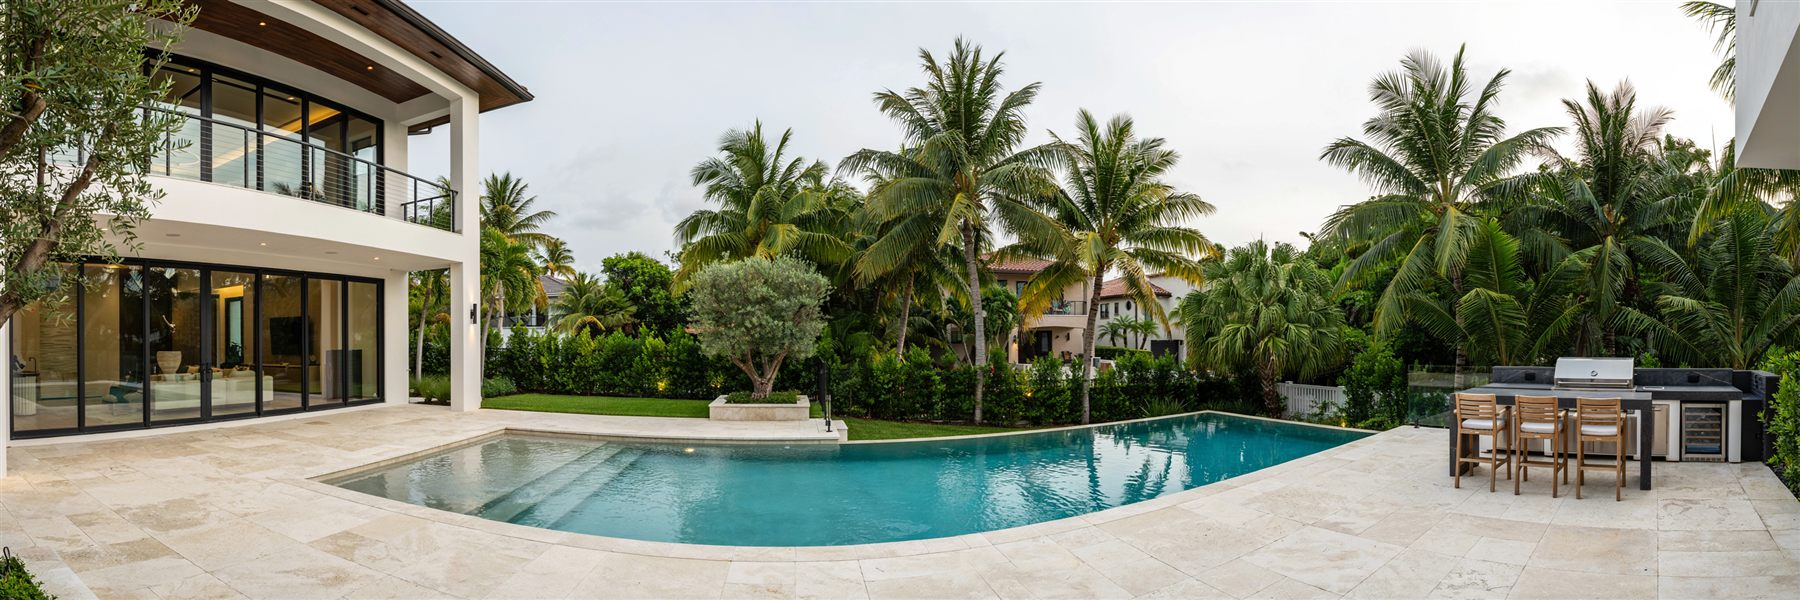
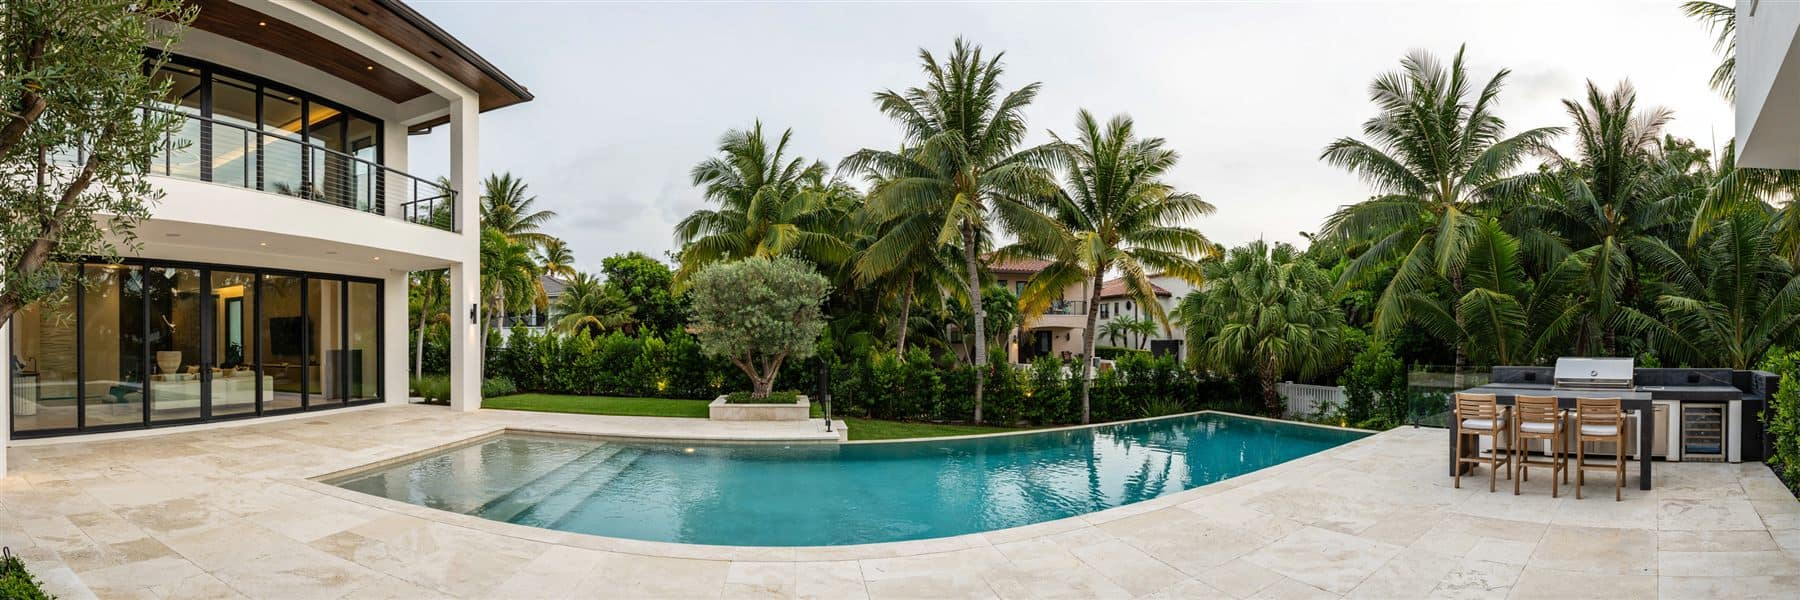
perf(home): hero estatico no index.html + foto do hero 251->161KB
A home era 100% JS: #root vazio, nada pintava ate o React montar no
celular (LCP 8,2s com todos os recursos baixados em 1,2s). Agora o
prerender injeta uma copia estatica do above-the-fold (.vgx-nav +
.vgx-hero) dentro do #root SO no dist/index.html - o CSS ja e
render-blocking e pinta o hero em ~2s; o React substitui ao montar
(markup igual, troca invisivel, createRoot.render).

- guarda de rota inline: o bloco some em rotas != / (o index.html
  tambem e fallback do SPA pra /imoveis, /favoritos etc.)
- injecao e o ULTIMO passo do prerender (as outras paginas usam o
  baseHtml pristino lido no topo); root ausente agora FALHA o build
- casa-conceito.jpg recomprimida q72 mozjpeg (fica sob scrim/gradiente)
- Lighthouse mobile local: score 46->85, FCP 4,5s->1,1s, LCP 8,2s->1,9s

Changed region(s): [[0.0, 0.27, 0.0311, 0.33], [0.7467, 0.24, 0.7778, 0.27], [0.5289, 0.12, 0.56, 0.15]]

diff --git a/scripts/home-hero-estatico.html b/scripts/home-hero-estatico.html
@@ -1,0 +1,15 @@
+<!-- Hero estático da home (above-the-fold), injetado pelo prerender-og.mjs DENTRO do <div id="root">
+     de dist/index.html. Objetivo: FCP/LCP no mobile sem esperar o React montar (o CSS já é
+     render-blocking e pinta isto em ~2s; antes, nada pintava até o JS todo rodar).
+     - É uma CÓPIA do HTML que o React gera (SecoesVG.jsx: .vgx-nav + .vgx-hero). O React 18
+       substitui tudo ao montar (createRoot().render) - markup igual = troca invisível.
+     - Este comentário NÃO vai pro HTML público: o prerender remove comentários antes de injetar.
+     - Se mudar o hero da home (SecoesVG.jsx), atualize esta cópia (capturar o outerHTML de
+       .vgx-nav e .vgx-hero da home renderizada).
+     - O <script> abaixo esconde o bloco em qualquer rota que não seja "/" (o dist/index.html
+       também serve de fallback do SPA pra rotas sem prerender, tipo /imoveis e /favoritos). -->
+<script>(function(){var p=location.pathname.replace(/\/+$/,'')||'/';if(p!=='/'){var s=document.createElement('style');s.textContent='#vgx-estatico{display:none}';document.head.appendChild(s);}})();</script>
+<div class="vgx" id="vgx-estatico">
+<header class="vgx-nav"><div class="vgx-nav-inner"><a aria-label="Vinícius Graton · início" href="/"><span class="vgx-brand"><span class="vgx-seal" style="width: 46px; height: 46px; border-radius: 12px;"><b style="font-size: 20px;">VG</b><i></i></span><span class="vgx-brand-word"><b>VINÍCIUS GRATON</b><span>Consultoria de imóveis</span></span></span></a><button class="vgx-burger" aria-label="Abrir menu" aria-expanded="false"><svg viewBox="0 0 24 24" width="26" height="26" fill="none" stroke="currentColor" stroke-width="2.2" stroke-linecap="round"><path d="M3 6h18M3 12h18M3 18h18"></path></svg></button><nav class="vgx-nav-links "><a class="is-active" href="/">Início</a><a class="" href="/imoveis">Imóveis</a><a class="" href="/imoveis?precoMin=1000000">Alto padrão</a><a class="" href="/lancamentos">Lançamentos</a><a class="" href="/mercado">Mercado</a><a class="" href="/sobre">Sobre</a><a class="" href="/blog">Blog</a><a class="" href="/contato">Contato</a></nav><a class="vgx-nav-cta" href="https://wa.me/5534991570494?text=Ol%C3%A1%20Vin%C3%ADcius!%20Quero%20conversar%20sobre%20im%C3%B3veis%20em%20Uberl%C3%A2ndia." target="_blank" rel="noopener noreferrer">Falar com o Vinícius</a></div></header>
+<section class="vgx-hero vgx-reveal"><div class="vgx-hero-media"><div class="vgx-hero-photo" style="background-image: url('/casa-conceito.jpg');"></div><div class="vgx-hero-sheen"></div></div><div class="vgx-hero-scrim"></div><div class="vgx-hero-grid"></div><div class="vgx-hero-inner"><span class="vgx-seal" style="width: 62px; height: 62px; border-radius: 16px; margin-bottom: 4px;"><b style="font-size: 27px;">VG</b><i></i></span><span class="vgx-hero-eyebrow">Consultoria de imóveis em Uberlândia</span><h1>Compre seu imóvel sem medo de errar</h1><p class="vgx-hero-sub">Curadoria pessoal do primeiro contato à entrega das chaves. Especialista em alto padrão, do imóvel de entrada à casa definitiva, com a segurança de quem conhece cada bairro de Uberlândia.</p><div class="vgx-busca"><select aria-label="Bairro"><option value="">Todos os bairros</option></select><select aria-label="Tipo de imóvel"><option value="">Todos os tipos</option><option value="Apartamento">Apartamento</option><option value="Casa">Casa</option><option value="Casa em condomínio">Casa em condomínio</option><option value="Cobertura">Cobertura</option></select><select aria-label="Valor máximo"><option value="">Qualquer valor</option><option value="500000">Até R$ 500 mil</option><option value="1000000">Até R$ 1 milhão</option><option value="2000000">Até R$ 2 milhões</option><option value="acima">Acima de R$ 2 milhões</option></select><button>Buscar imóveis</button></div><span class="vgx-hero-coords">18°55'S · 48°17'W · UBERLÂNDIA MG · EM PARCERIA COM A ROTINA IMOBILIÁRIA</span></div></section>
+</div>